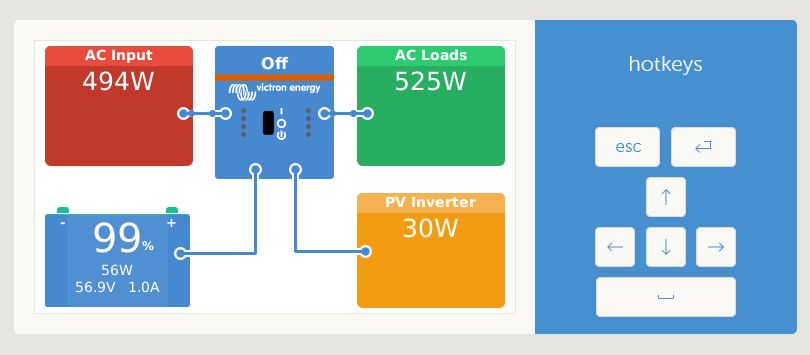
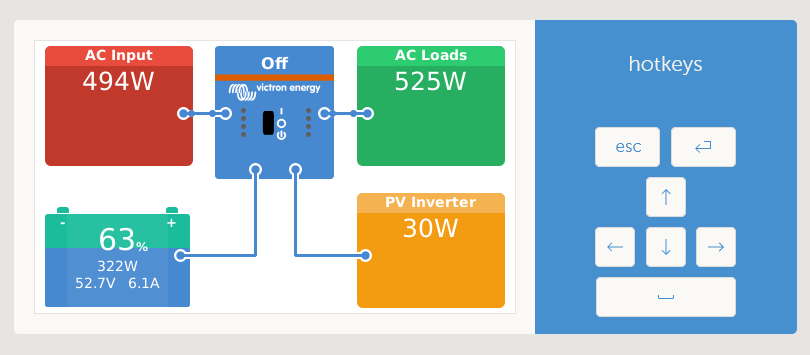
Fixes and new values * Added: Set logging level in `config.default.ini` * Added: A lot of new values that can be set, check `README.md` for details * Changed: Fixed topic name in `config.ini` * Changed: Logging levels of different messages for clearer output * Changed: Minimum required data to `powe

Changed region(s): [[0.0309, 0.5887, 0.3086, 0.8366], [0.3704, 0.6817, 0.463, 0.7437]]

diff --git a/dbus-mqtt-battery/dbus-mqtt-battery.py b/dbus-mqtt-battery/dbus-mqtt-battery.py
@@ -54,13 +54,32 @@ connected = 0
 battery_power = -1
 battery_voltage = 0
 battery_current = 0
-battery_temperature = 0
+battery_temperature = None
 
-battery_consumed_amphours = 0
+battery_installed_capacity = None
+battery_consumed_amphours = None
+battery_capacity = None
 battery_soc = 0
+battery_time_to_go = 0
 
-battery_voltageMin = 0
-battery_voltageMax = 0
+battery_max_charge_voltage = None
+battery_max_charge_current = None
+battery_max_discharge_current = None
+
+battery_charge_cycles = None
+battery_voltage_min = None
+battery_voltage_max = None
+battery_total_ah_drawn = None
+
+battery_total_min_voltage_cell_id = None
+battery_total_min_cell_voltage = None
+battery_total_max_voltage_cell_id = None
+battery_total_max_cell_voltage = None
+
+battery_total_min_temperature_cell_id = None
+battery_total_min_cell_temperature = None
+battery_total_max_temperature_cell_id = None
+battery_total_max_cell_temperature = None
 
 
 # MQTT requests
@@ -94,8 +113,11 @@ def on_message(client, userdata, msg):
 
         global \
             battery_power, battery_voltage, battery_current, battery_temperature, \
-            battery_consumed_amphours, battery_soc, \
-            battery_voltageMin, battery_voltageMax
+            battery_installed_capacity, battery_consumed_amphours, battery_capacity, battery_soc, battery_time_to_go, \
+            battery_max_charge_voltage, battery_max_charge_current, battery_max_discharge_current, \
+            battery_charge_cycles, battery_voltage_min, battery_voltage_max, battery_total_ah_drawn, \
+            battery_total_min_voltage_cell_id, battery_total_min_cell_voltage, battery_total_max_voltage_cell_id, battery_total_max_cell_voltage, \
+            battery_total_min_temperature_cell_id, battery_total_min_cell_temperature, battery_total_max_temperature_cell_id, battery_total_max_cell_temperature
 
         # get JSON from topic
         if msg.topic == config['MQTT']['topic_battery']:
@@ -104,14 +126,33 @@ def on_message(client, userdata, msg):
 
                 battery_power   = float(jsonpayload["dc"]["power"])
                 battery_voltage = float(jsonpayload["dc"]["voltage"])
-                battery_current = float(jsonpayload["dc"]["current"])
-                battery_temperature = float(jsonpayload["dc"]["temperature"])
+                battery_current = float(jsonpayload["dc"]["current"]) if 'current' in jsonpayload["dc"] else round( ( float( jsonpayload["dc"]["power"])/float( jsonpayload["dc"]["voltage"]) ), 2 )
+                battery_temperature = float(jsonpayload["dc"]["temperature"]) if 'current' in jsonpayload["dc"] else None
 
-                battery_consumed_amphours = float(jsonpayload["consumed_amphours"])
-                battery_soc = float(jsonpayload["soc"])
+                battery_installed_capacity = float(jsonpayload["InstalledCapacity"]) if 'InstalledCapacity' in jsonpayload else None
+                battery_consumed_amphours = float(jsonpayload["ConsumedAmphours"]) if 'ConsumedAmphours' in jsonpayload else None
+                battery_capacity = float(jsonpayload["Capacity"]) if 'Capacity' in jsonpayload else ( battery_installed_capacity - battery_consumed_amphours ) if battery_installed_capacity is not None and battery_consumed_amphours is not None else None
+                battery_soc = int(jsonpayload["soc"])
+                battery_time_to_go = int(jsonpayload["TimeToGo"]) if 'TimeToGo' in jsonpayload else round( ( battery_capacity / battery_current * 60 * 60 ), 0 ) if battery_capacity is not None else None
 
-                battery_voltageMin = float(jsonpayload["history"]["voltageMin"])
-                battery_voltageMax = float(jsonpayload["history"]["voltageMax"])
+                battery_max_charge_voltage = float(jsonpayload["info"]["MaxChargeVoltage"]) if 'history' in jsonpayload and 'MaxChargeVoltage' in jsonpayload["history"] else None
+                battery_max_charge_current = float(jsonpayload["info"]["MaxChargeCurrent"]) if 'history' in jsonpayload and 'MaxChargeCurrent' in jsonpayload["history"] else None
+                battery_max_discharge_current = float(jsonpayload["info"]["MaxDischargeCurrent"]) if 'history' in jsonpayload and 'MaxDischargeCurrent' in jsonpayload["history"] else None
+
+                battery_charge_cycles = int(jsonpayload["history"]["ChargeCycles"]) if 'history' in jsonpayload and 'ChargeCycles' in jsonpayload["history"] else None
+                battery_voltage_min = float(jsonpayload["history"]["voltageMin"]) if 'history' in jsonpayload and 'voltageMin' in jsonpayload["history"] else None
+                battery_voltage_max = float(jsonpayload["history"]["voltageMax"]) if 'history' in jsonpayload and 'voltageMax' in jsonpayload["history"] else None
+                battery_total_ah_drawn = float(jsonpayload["history"]["TotalAhDrawn"]) if 'history' in jsonpayload and 'TotalAhDrawn' in jsonpayload["history"] else None
+
+                battery_total_min_voltage_cell_id = jsonpayload["system"]["MinVoltageCellId"] if 'system' in jsonpayload and 'MinVoltageCellId' in jsonpayload["system"] else None
+                battery_total_min_cell_voltage = float(jsonpayload["system"]["MinCellVoltage"]) if 'system' in jsonpayload and 'MinCellVoltage' in jsonpayload["system"] else None
+                battery_total_max_voltage_cell_id = jsonpayload["system"]["MaxVoltageCellId"] if 'system' in jsonpayload and 'MaxVoltageCellId' in jsonpayload["system"] else None
+                battery_total_max_cell_voltage = float(jsonpayload["system"]["MaxCellVoltage"]) if 'system' in jsonpayload and 'MaxCellVoltage' in jsonpayload["system"] else None
+
+                battery_total_min_temperature_cell_id = jsonpayload["system"]["MinTemperatureCellId"] if 'system' in jsonpayload and 'MinTemperatureCellId' in jsonpayload["system"] else None
+                battery_total_min_cell_temperature = float(jsonpayload["system"]["MinCellTemperature"]) if 'system' in jsonpayload and 'MinCellTemperature' in jsonpayload["system"] else None
+                battery_total_max_temperature_cell_id = jsonpayload["system"]["MaxTemperatureCellId"] if 'system' in jsonpayload and 'MaxTemperatureCellId' in jsonpayload["system"] else None
+                battery_total_max_cell_temperature = float(jsonpayload["system"]["MaxCellTemperature"]) if 'system' in jsonpayload and 'MaxCellTemperature' in jsonpayload["system"] else None
             else:
                 logging.warning("Received JSON MQTT message was empty and therefore it was ignored")
                 logging.debug("MQTT payload: " + str(msg.payload)[1:])
@@ -151,7 +192,7 @@ class DbusMqttBatteryService:
         self._dbusservice.add_path('/ProductId', 0xFFFF)
         self._dbusservice.add_path('/ProductName', productname)
         self._dbusservice.add_path('/CustomName', productname)
-        self._dbusservice.add_path('/FirmwareVersion', '0.0.2')
+        self._dbusservice.add_path('/FirmwareVersion', '0.1.0')
         #self._dbusservice.add_path('/HardwareVersion', '')
         self._dbusservice.add_path('/Connected', 1)
 
@@ -166,13 +207,20 @@ class DbusMqttBatteryService:
 
 
     def _update(self):
-        self._dbusservice['/Dc/0/Power'] =  round(battery_power, 2) # positive: charging, negative: discharging
-        self._dbusservice['/Dc/0/Voltage'] = round(battery_voltage, 2)
-        self._dbusservice['/Dc/0/Current'] = round(battery_current, 2)
-        self._dbusservice['/Dc/0/Temperature'] = round(battery_temperature, 2)
+        self._dbusservice['/Dc/0/Power'] =  battery_power # positive: charging, negative: discharging
+        self._dbusservice['/Dc/0/Voltage'] = battery_voltage
+        self._dbusservice['/Dc/0/Current'] = battery_current
+        self._dbusservice['/Dc/0/Temperature'] = battery_temperature
 
-        self._dbusservice['/ConsumedAmphours'] = round(battery_consumed_amphours, 2)
-        self._dbusservice['/Soc'] = round(battery_soc, 2)
+        self._dbusservice['/InstalledCapacity'] = battery_installed_capacity
+        self._dbusservice['/ConsumedAmphours'] = battery_consumed_amphours
+        self._dbusservice['/Capacity'] = battery_capacity
+        self._dbusservice['/Soc'] = battery_soc
+        self._dbusservice['/TimeToGo'] = battery_time_to_go
+
+        self._dbusservice['/Info/MaxChargeVoltage'] = battery_max_charge_voltage
+        self._dbusservice['/Info/MaxChargeCurrent'] = battery_max_charge_current
+        self._dbusservice['/Info/MaxDischargeCurrent'] = battery_max_discharge_current
 
         # For all alarms: 0=OK; 1=Warning; 2=Alarm
         if battery_voltage == 0:
@@ -205,8 +253,20 @@ class DbusMqttBatteryService:
             alarm_lowsoc = 0
         self._dbusservice['/Alarms/LowSoc'] = alarm_lowsoc
 
-        self._dbusservice['/History/MinimumVoltage'] = round(battery_voltageMin, 2)
-        self._dbusservice['/History/MaximumVoltage'] = round(battery_voltageMax, 2)
+        self._dbusservice['/History/ChargeCycles'] = battery_charge_cycles
+        self._dbusservice['/History/MinimumVoltage'] = battery_voltage_min
+        self._dbusservice['/History/MaximumVoltage'] = battery_voltage_max
+        self._dbusservice['/History/TotalAhDrawn'] = battery_total_ah_drawn
+
+        self._dbusservice['/System/MinVoltageCellId'] = battery_total_min_voltage_cell_id
+        self._dbusservice['/System/MinCellVoltage'] = battery_total_min_cell_voltage
+        self._dbusservice['/System/MaxVoltageCellId'] = battery_total_max_voltage_cell_id
+        self._dbusservice['/System/MaxCellVoltage'] = battery_total_max_cell_voltage
+
+        self._dbusservice['/System/MinTemperatureCellId'] = battery_total_min_temperature_cell_id
+        self._dbusservice['/System/MinCellTemperature'] = battery_total_min_cell_temperature
+        self._dbusservice['/System/MaxTemperatureCellId'] = battery_total_max_temperature_cell_id
+        self._dbusservice['/System/MaxCellTemperature'] = battery_total_max_cell_temperature
 
         logging.debug("Battery SoC: {:.2f} V - {:.2f} %".format(battery_voltage, battery_soc))
 
@@ -284,6 +344,7 @@ def main():
     _p = lambda p, v: (str(round(v, 2)) + '%')
     _t = lambda p, v: (str(round(v, 2)) + '°C')
     _n = lambda p, v: (str(round(v, 0)))
+    _s = lambda p, v: (str(v))
 
     paths_dbus = {
         '/Dc/0/Power': {'initial': 0, 'textformat': _w},
@@ -291,14 +352,15 @@ def main():
         '/Dc/0/Current': {'initial': 0, 'textformat': _a},
         '/Dc/0/Temperature': {'initial': None, 'textformat': _t},
 
-        '/ConsumedAmphours': {'initial': 0, 'textformat': _ah},
+        '/InstalledCapacity': {'initial': None, 'textformat': _ah},
+        '/ConsumedAmphours': {'initial': None, 'textformat': _ah},
+        '/Capacity': {'initial': None, 'textformat': _ah},
         '/Soc': {'initial': 0, 'textformat': _p},
+        '/TimeToGo': {'initial': None, 'textformat': _n},
 
-        '/Info/MaxChargeCurrent': {'initial': 50, 'textformat': _a},
-        '/Info/MaxDischargeCurrent': {'initial': 50, 'textformat': _a},
-        '/Info/MaxChargeVoltage': {'initial': 15.0, 'textformat': _v},
-        '/Info/BatteryLowVoltage': {'initial': 11.5, 'textformat': _v},
-        '/Info/ChargeRequest': {'initial': 0, 'textformat': _n},
+        '/Info/MaxChargeVoltage': {'initial': None, 'textformat': _v},
+        '/Info/MaxChargeCurrent': {'initial': None, 'textformat': _a},
+        '/Info/MaxDischargeCurrent': {'initial': None, 'textformat': _a},
 
         '/Alarms/LowVoltage': {'initial': 0, 'textformat': _n},
         '/Alarms/HighVoltage': {'initial': 0, 'textformat': _n},
@@ -312,8 +374,23 @@ def main():
         '/Alarms/LowTemperature': {'initial': 0, 'textformat': _n},
         '/Alarms/HighTemperature': {'initial': 0, 'textformat': _n},
 
+        '/History/ChargeCycles': {'initial': None, 'textformat': _n},
         '/History/MinimumVoltage': {'initial': None, 'textformat': _v},
         '/History/MaximumVoltage': {'initial': None, 'textformat': _v},
+        '/History/TotalAhDrawn': {'initial': None, 'textformat': _ah},
+
+        '/System/MinVoltageCellId': {'initial': None, 'textformat': _s},
+        '/System/MinCellVoltage': {'initial': None, 'textformat': _v},
+        '/System/MaxVoltageCellId': {'initial': None, 'textformat': _s},
+        '/System/MaxCellVoltage': {'initial': None, 'textformat': _v},
+
+        '/System/MinTemperatureCellId': {'initial': None, 'textformat': _s},
+        '/System/MinCellTemperature': {'initial': None, 'textformat': _t},
+        '/System/MaxTemperatureCellId': {'initial': None, 'textformat': _s},
+        '/System/MaxCellTemperature': {'initial': None, 'textformat': _t},
+
+        '/System/NrOfModulesOnline': {'initial': 1, 'textformat': _n},
+        '/System/NrOfModulesOffline': {'initial': 0, 'textformat': _n},
 
         '/UpdateIndex': {'initial': 0, 'textformat': _n},
     }

diff --git a/README.md b/README.md
@@ -19,21 +19,56 @@ Copy or rename the `config.sample.ini` to `config.ini` in the `dbus-mqtt-battery
 
 ### JSON structure
 
-<details><summary>Required data</summary>
+<details><summary>Minimum required</summary>
 
 ```json
 {
     "dc": {
-        "power": 79.6,
-        "voltage": 58.1,
-        "current": 1.4,
-        "temperature": 23
+        "power": 321.6,
+        "voltage": 52.7
     },
-    "consumed_amphours": 2.9,
-    "soc": 99,
+    "soc": 63
+}
+```
+</details>
+
+<details><summary>Full (with descriptions)</summary>
+
+Please remove the `--> *` comments to get a valid `JSON`. Comments are not allowed in `JSON` structure, but for simplicity I added them.
+
+```json
+{
+    "dc": {
+        "power": 321.6,                 --> Watt
+        "voltage": 52.7,                --> Volt
+        "current": 6.10,                --> Ampere - if empty, than calculated from "power" and "voltage"
+        "temperature": 23               --> Celsius
+    },
+    "InstalledCapacity": 200.0,         --> Ampere hours - total battery capacity
+    "ConsumedAmphours": 74.5,           --> Ampere hours - consumed
+    "Capacity": 125.5,                  --> Ampere hours - remaining - if empty, than calculated when "InstalledCapacity" and "ConsumedAmphours" are set
+    "soc": 63,                          --> Percent (0-100) - state of charge
+    "TimeToGo": 43967,                  --> Seconds - time until the battery is empty - if empty, than calculated when "Capacity" is set or calculated
+    "info": {
+        "MaxChargeVoltage": 58.4,       --> Volt - Maximum loading voltage that the MultiPlus/Quattro should use
+        "MaxChargeCurrent": 80.0,       --> Ampere - Maximum charge current that the MultiPlus/Quattro should use
+        "MaxDischargeCurrent": 120.0    --> Ampere - Maximum discharge current that the MultiPlus/Quattro should use
+    },
     "history": {
-        "voltageMin": 0,
-        "voltageMax": 0
+        "ChargeCycles": 5,              --> Number - cycles for complete battery lifetime
+        "voltageMin": 40.8,             --> Battery voltage minimum over time
+        "voltageMax": 58.4,             --> Battery voltage maximum over time
+        "TotalAhDrawn": 1057.3          --> Ampere hours - drawn ampere hours for complete battery lifetime
+    },
+    "system": {
+        "MinVoltageCellId": "C3",       --> String - ID of the cell with the lowest voltage
+        "MinCellVoltage": 3.392,        --> Volt - Of the cell with the lowest voltage
+        "MaxVoltageCellId": "C15",      --> String - ID of the cell with the highest voltage
+        "MaxCellVoltage": 3.417,        --> Volt - Of the cell with the highest voltage
+        "MinTemperatureCellId": "C2",   --> String - ID of the cell with the lowest temperature
+        "MinCellTemperature": 22.5,     --> Celsius - Of the cell with the lowest temperature
+        "MaxTemperatureCellId": "C9",   --> String - ID of the cell with the highest temperature
+        "MaxCellTemperature": 23.5      --> Celsius - Of the cell with the highest temperature
     }
 }
 ```
@@ -81,6 +116,12 @@ It was tested on following devices:
 
 ![MQTT Battery - pages](/screenshots/battery_pages.png)
 ![MQTT Battery - device list](/screenshots/battery_device_list.png)
-![MQTT Battery - device list - mqtt battery](/screenshots/battery_device_list_mqtt-battery.png)
+![MQTT Battery - device list - mqtt battery](/screenshots/battery_device_list_mqtt-battery_1.png)
+![MQTT Battery - device list - mqtt battery](/screenshots/battery_device_list_mqtt-battery_2.png)
+![MQTT Battery - device list - mqtt battery](/screenshots/battery_device_list_mqtt-battery_3.png)
+![MQTT Battery - device list - mqtt battery](/screenshots/battery_device_list_mqtt-battery_4.png)
+![MQTT Battery - device list - mqtt battery](/screenshots/battery_device_list_mqtt-battery_5.png)
+![MQTT Battery - device list - mqtt battery](/screenshots/battery_device_list_mqtt-battery_6.png)
+![MQTT Battery - device list - mqtt battery](/screenshots/battery_device_list_mqtt-battery_7.png)
 
 </details>

diff --git a/CHANGELOG.md b/CHANGELOG.md
@@ -1,0 +1,12 @@
+# Changelog
+
+## v0.1.0
+* Added: Set logging level in `config.default.ini`
+* Added: A lot of new values that can be set, check `README.md` for details
+* Changed: Fixed topic name in `config.ini`
+* Changed: Logging levels of different messages for clearer output
+* Changed: Minimum required data to `power`, `voltage` and `soc`
+* Changed: Optimized log output for faster troubleshooting
+
+## v0.0.1
+Initial release
